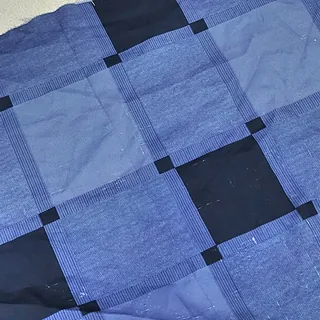
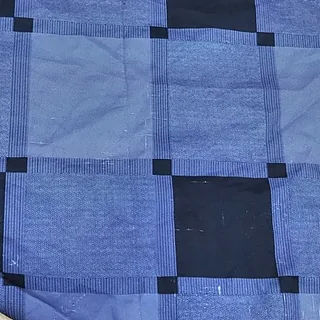
fix(kho-vai): one row per fabric, slanted checks turned straight
The Drive folder holds 2-3 photos of some fabrics (close, far, the back);
the seed made a row of each. 20261014d_kho_vai_gop.sql removes the five
second photos (3, 16, 14, 57, 53) and renames three; js/patch.js maps the
old r<id> to the kept fabric so shared designs still show the right cloth.

Checks and stripes photographed at a slant are turned straight before the
swatch is cut (#46 -45 deg, now 'Kẻ ô nâu đen'; #13 -25 deg, 'Caro lớn
xanh đen'; #63 -3.8 deg). Tests: 66 fabrics.

Claude-Session: https://claude.ai/code/session_01XuGc1emL7LJH73FGACZt11

diff --git a/js/patch.js b/js/patch.js
@@ -155,6 +155,9 @@
   var REAL_IMG = /^(images\/[a-z0-9\/_.-]+|https:\/\/dxdovvqsfjeizsoprrfn\.supabase\.co\/storage\/v1\/object\/public\/gem-media\/[A-Za-z0-9%._-]+)$/;
   // how alike two kinds are, when the exact one is missing
   var KIND_GROUP = { tron: 0, ren: 0, caro: 1, soc: 1, ono: 1, cham: 2, hoa: 2, hoato: 3, tho: 3 };
+  // rows that were a second photo of the same cloth (removed 14/10/2026,
+  // 20261014d_kho_vai_gop.sql): an old design's r<id> shows the kept one
+  var MERGED = { 3: 2, 16: 15, 14: 12, 57: 59, 53: 41 };
 
   function setReal(rows) {
     REAL = {}; REAL_ON = [];
@@ -167,6 +170,7 @@
       REAL[f.id] = f;
       if (!f.out && !f.hidden && f.src) REAL_ON.push(f);
     });
+    Object.keys(MERGED).forEach(function (id) { if (!REAL[id] && REAL[MERGED[id]]) REAL[id] = REAL[MERGED[id]]; });
     REAL_ON.sort(function (a, b) {
       return TONE_ORDER.indexOf(a.tone) - TONE_ORDER.indexOf(b.tone) || a.sort - b.sort || a.id - b.id;
     });

diff --git a/tools/check-studio.py b/tools/check-studio.py
@@ -156,6 +156,14 @@ def fabric_rows():
     places = {int(a): b for a, b in re.findall(r"\((\d+), '(Phòng[^']*)'\)", sql)}
     for r in rows:
         r['place'] = places.get(r['id'])
+    # 20261014d: second photos of the same cloth removed, a few renamed
+    gop = (ROOT / 'supabase/migrations/20261014d_kho_vai_gop.sql').read_text(encoding='utf-8')
+    gone = {int(x) for x in re.search(r'where id in \(([\d, ]+)\)', gop)[1].split(',')}
+    rows = [r for r in rows if r['id'] not in gone]
+    for m in re.finditer(r"set name_vi = '([^']*)', name_en = '([^']*)' where id = (\d+)", gop):
+        for r in rows:
+            if r['id'] == int(m[3]):
+                r['name_vi'], r['name_en'] = m[1], m[2]
     return rows
 
 
@@ -2819,9 +2827,10 @@ async def vai(browser, db):
     """Kho vải on the design table: the basket holds the real fabrics."""
     print('vai')
     db.fabrics = fabric_rows()
-    db.fabrics[2]['in_stock'] = False      # Caro xanh lá to: sold out
-    db.fabrics[3]['is_visible'] = False    # Gấm lá xanh: hidden
-    gone = {'r3', 'r4'}
+    byid = {f['id']: f for f in db.fabrics}
+    byid[2]['in_stock'] = False            # Caro xanh lá: sold out
+    byid[4]['is_visible'] = False          # Gấm lá xanh: hidden
+    gone = {'r2', 'r4'}
     lam = sorted('r%d' % f['id'] for f in db.fabrics if f['tone'] == 'lam')
     for name, w, h in (('mobile', 393, 852), ('desktop', 1440, 900)):
         db.fab_urls.clear()
@@ -2836,7 +2845,7 @@ async def vai(browser, db):
         line = await pg.evaluate("(() => { const e = document.querySelector('.pt-onpiece'); return e && !e.hidden ? e.textContent : ''; })()")
         check(line.startswith('Vải trên món:') and '×' in line, f'{name}: "Vải trên món" names the fabrics ({line[:70]})')
         chips = await pg.evaluate("[...document.querySelectorAll('.pt-vtone')].map(b => b.textContent)")
-        check(len(chips) == 6 and chips[0].startswith('Tất cả 69'), f'{name}: colour chips, sold-out / hidden left out ({chips})')
+        check(len(chips) == 6 and chips[0].startswith('Tất cả 64'), f'{name}: colour chips, sold-out / hidden left out ({chips})')
         # one colour: only blues, and "Lục rổ" walks through all of them
         await js_click(pg, '[data-vtone="lam"]')
         seen = set(await pg.evaluate("[...document.querySelectorAll('.pt-scrap')].map(b => b.dataset.scrap)"))
@@ -2871,7 +2880,7 @@ async def vai(browser, db):
         await js_click(pg, '[data-pt="kho"]')
         await pg.wait_for_timeout(500)
         n = await pg.evaluate("document.querySelectorAll('.kho-f').length")
-        check(n == 69, f'{name}: Kho vải shows every fabric in stock ({n})')
+        check(n == 64, f'{name}: Kho vải shows every fabric in stock ({n})')
         names = await pg.evaluate("[...document.querySelectorAll('.kho-f b')].map(b => b.textContent).slice(0, 3)")
         check(names[0] == 'Thô xanh rêu', f'{name}: each card has its name ({names})')
         await js_click(pg, '[data-ktone="hong"]')
@@ -2901,12 +2910,12 @@ async def vai(browser, db):
     got = await pg.evaluate("""() => window.GemPatch.loadReal().then(() => {
       const P = window.GemPatch, d = P.blank('goi');
       P.applyMood(d, P.MOODS[1]);
-      P.setPatch(d, 0, 'r3');                    // a sold-out one on purpose
+      P.setPatch(d, 0, 'r2');                    // a sold-out one on purpose
       const spec = P.encode(d), back = P.parse(spec);
       return [spec, !!back && P.encode(back) === spec, P.describe(spec, 'vi'), P.url(spec)];
     })""")
     check(got[1] and re.search(r'~r\d+(\.r\d+)*$', got[0]), f'design code carries the real fabrics and reads back ({got[0][-40:]})')
-    check('Caro xanh lá to (đã hết)' in got[2] and 'chất vải' not in got[2], f'order line: real names, sold out marked ({got[2][:120]})')
+    check('Caro xanh lá (đã hết)' in got[2] and 'chất vải' not in got[2], f'order line: real names, sold out marked ({got[2][:120]})')
     await pg.goto(got[3])
     await pg.wait_for_timeout(3500)
     check(await pg.evaluate("document.querySelectorAll('.pt-board image[href*=\"vai-that\"]').length") > 0, 'a shared link opens with the fabric photos')
@@ -2942,10 +2951,10 @@ async def kho(browser, db):
     await js_click(pg, '[data-tab="fabrics"]')
     await pg.wait_for_timeout(800)
     n = await pg.evaluate("document.querySelectorAll('.ad-fab').length")
-    check(n == 71, f'all 71 fabrics on cards ({n})')
+    check(n == 66, f'all 66 fabrics on cards ({n})')
     check('Chỗ để: Phòng' in await pg.evaluate("document.querySelector('.ad-fab .ad-fab-place').textContent"), 'each card says where it is kept')
     await js_click(pg, '[data-ff="xanh"]')
-    check(await pg.evaluate("document.querySelectorAll('.ad-fab').length") == 6, 'the "Xanh lá" chip: six cards')
+    check(await pg.evaluate("document.querySelectorAll('.ad-fab').length") == 5, 'the "Xanh lá" chip: five cards')
     await js_click(pg, '[data-ff="all"]')
     # Còn -> Hết
     await js_click(pg, '.ad-fab [data-fs="stock"]')
@@ -3003,7 +3012,7 @@ async def kho(browser, db):
     f = db.files.get((row.get('img') or '').split('/gem-media/')[-1])
     check(f and decode(f[1]).size == (320, 320) and f[0] == 'image/webp', f'the photo is a 320px WebP ({decode(f[1]).size if f else None}, {len(f[1]) // 1024 if f else 0} KB)')
     check(('place', {'fabric_id': 72, 'place': 'Kệ thử, tầng 2'}) in db.fab_log, 'its place goes to fabric_private')
-    check(await pg.evaluate("document.querySelectorAll('.ad-fab').length") == 72, 'back on the cards: 72 now')
+    check(await pg.evaluate("document.querySelectorAll('.ad-fab').length") == 67, 'back on the cards: 67 now')
     # edit: rename + move
     await js_click(pg, '.ad-fab[data-id="72"] [data-fs="edit"]')
     check(await pg.evaluate("document.querySelector('[name=\"name_vi\"]').value") == 'Lụa đỏ thử', 'the form opens filled in')
@@ -3018,7 +3027,7 @@ async def kho(browser, db):
     await js_click(pg, '.ad-fab[data-id="72"] [data-fs="edit"]')
     await js_click(pg, '.ad-fab-del')   # page() accepts the confirm
     await pg.wait_for_timeout(1000)
-    check(('delete', 72) in db.fab_log and await pg.evaluate("document.querySelectorAll('.ad-fab').length") == 71, 'Xoá removes it')
+    check(('delete', 72) in db.fab_log and await pg.evaluate("document.querySelectorAll('.ad-fab').length") == 66, 'Xoá removes it')
     check(not pg.errors, f'no script errors {pg.errors}')
     await pg.context.close()
 

diff --git a/tools/kv-swatches.py b/tools/kv-swatches.py
@@ -15,7 +15,8 @@
 #   prints       big light changes evened out (a fold that bends the print
 #                stays: redrawing it would no longer be the real cloth)
 # then the shop's lights corrected (less yellow-red, not for cream / beige),
-# brighter, a little fresher. The rows match supabase/migrations/20261014b_kho_vai_seed.sql.
+# brighter, a little fresher. The rows match supabase/migrations/20261014b_kho_vai_seed.sql
+# less the second photos of the same cloth (20261014d_kho_vai_gop.sql).
 import os
 import re
 import sys
@@ -31,7 +32,6 @@ F = [
     # xanh lá
     ('A-185048', (160, 120, 1040, 1000), 'Thô xanh rêu', 'Moss green linen-look', 'xanh', 'tron', 'Vải thô', 1, 0),
     ('A-185105', (200, 150, 650, 600), 'Caro xanh lá', 'Green gingham', 'xanh', 'caro', 'Cotton', 0, 0),
-    ('A-185114', (450, 100, 1000, 650), 'Caro xanh lá to', 'Big green check', 'xanh', 'caro', 'Cotton', 0, 0),
     ('B-175626', (200, 120, 1040, 960), 'Gấm lá xanh', 'Green leaf brocade', 'xanh', 'hoato', 'Gấm', 0, 0),
     ('B-173906', C, 'Hoa nền vàng chanh', 'Flowers on lime', 'xanh', 'hoato', 'Vải pha', 0, 0),
     ('B-174628', C, 'Hoa rực rỡ', 'Bright garden', 'xanh', 'hoato', 'Vải pha', 0, 0),
@@ -42,10 +42,8 @@ F = [
     ('A-185530', (350, 150, 850, 650), 'Xanh than', 'Navy', 'lam', 'tron', 'Vải pha', 1, 0),
     ('A-185505', (550, 400, 1150, 1000), 'Tổ ong xanh nhạt', 'Pale blue waffle', 'lam', 'ono', 'Vải tổ ong', 0, 0),
     ('A-190250', (200, 150, 560, 510), 'Ô nhỏ xanh than', 'Small navy check', 'lam', 'ono', 'Cotton', 0, 0),
-    ('A-190149', (500, 240, 1100, 840), 'Caro trám xanh', 'Blue diamond check', 'lam', 'caro', 'Cotton', 0, 0),
-    ('A-190257', (550, 200, 1150, 800), 'Kẻ ô xanh coban', 'Cobalt plaid', 'lam', 'caro', 'Vải pha', 0, 0),
+    ('A-190149', (540, 280, 1060, 800), 'Caro trám xanh', 'Blue diamond check', 'lam', 'caro', 'Cotton', 0, 0),
     ('A-185158', (200, 150, 860, 810), 'Voan hoa hồng nền xanh', 'Roses on blue voile', 'lam', 'hoato', 'Voan', 0, 0),
-    ('A-185207', C, 'Hoa hồng to nền xanh nhạt', 'Big roses on pale blue', 'lam', 'hoato', 'Voan', 0, 0),
     ('A-184917', C, 'Họa tiết ô màu', 'Colour-block folk print', 'lam', 'tho', 'Cotton', 0, 0),
     ('B-174505', C, 'Màu nước tím xanh', 'Blue-violet watercolour', 'lam', 'hoato', 'Voan', 0, 0),
     ('B-175248', C, 'Paisley nền xám xanh', 'Paisley on grey-blue', 'lam', 'hoato', 'Voan', 0, 0),
@@ -84,12 +82,10 @@ F = [
     ('B-174419', C, 'Họa tiết nâu xanh ngọc', 'Brown and teal swirls', 'nau', 'hoato', 'Lụa', 0, 0),
     ('B-174524', C, 'Hoa to sơn dầu', 'Painted big flowers', 'nau', 'hoato', 'Vải pha', 0, 0),
     ('B-175200', C, 'Mảng màu cam xanh', 'Orange-blue colour blocks', 'nau', 'hoato', 'Vải pha', 0, 0),
-    ('B-174855', (800, 120, 1500, 820), 'Thổ cẩm đỏ đen', 'Red-black folk weave', 'nau', 'tho', 'Thổ cẩm', 0, 0),
     ('B-174154', C, 'Chắp vá thổ cẩm', 'Folk patchwork print', 'nau', 'tho', 'Cotton', 0, 0),
     # trung tính
     ('B-173754', (160, 120, 1040, 1000), 'Thun gân kem', 'Cream rib knit', 'trung', 'tron', 'Thun', 1, 1),
     ('B-173817', C, 'Kem trơn', 'Plain cream', 'trung', 'tron', 'Cotton', 1, 1),
-    ('A-185700', (300, 500, 800, 1000), 'Dạ xám muối tiêu', 'Salt-and-pepper wool', 'trung', 'tron', 'Dạ', 1, 0),
     ('A-185932', C, 'Nỉ xám', 'Grey felt', 'trung', 'tron', 'Nỉ', 1, 0),
     ('A-185655', C, 'Dạ xám than', 'Charcoal wool', 'trung', 'tron', 'Dạ', 1, 0),
     ('A-185719', C, 'Nhung đen ánh tím', 'Black-plum velvet', 'trung', 'tron', 'Nhung', 1, 0),
@@ -163,6 +159,10 @@ def photo(src, name):
         im = im.resize((round(im.width * k), round(im.height * k)), Image.LANCZOS)
     return im
 
+# checks / stripes photographed at a slant, turned straight round the crop's
+# centre before cropping (degrees, + = anticlockwise; Anna 14/10/2026)
+ROT = {'B-173648': -45, 'B-173947': -3.8, 'A-190149': -25}
+
 def default_box(im, box, plain):
     if box: return box
     w, h = im.size
@@ -175,6 +175,8 @@ def make(src, row, new=True):
     box = default_box(im, box, plain)
     if name in KEEP:
         plain = 0
+    if name in ROT:
+        im = im.rotate(ROT[name], center=((box[0] + box[2]) / 2, (box[1] + box[3]) / 2), resample=Image.BICUBIC)
     # prints keep the hand-checked crop: the "flattest" square found by
     # flattest() is too often the one with the least print on it
     a = np.asarray(im.crop(box).resize((640, 640), Image.LANCZOS), dtype=float) / 255

diff --git a/docs/design.md b/docs/design.md
@@ -1893,6 +1893,15 @@ Gem đang có**, nhân sự tự thêm tấm mới trong admin.
     cùng tủ vải to. Bỏ các ảnh trùng tấm.
   - Ảnh nằm ở `images/studio/vai-that/` (khoảng 1,8 MB), làm bằng `tools/kv-swatches.py`.
   - Tên, chất liệu, hoa văn là **đoán từ ảnh**: Anna sửa trong admin.
+  - **Lọc lại 14/10** (`20261014d_kho_vai_gop.sql`): Drive có 2–3 ảnh cho một số tấm (gần,
+    xa, mặt trái), seed đã tính mỗi ảnh một tấm. Xoá 5 dòng trùng (3→2, 16→15, 14→12,
+    57→59, 53→41), còn **66 tấm**. Mã thiết kế cũ có `r3`… vẫn hiện đúng vải nhờ bảng
+    `MERGED` trong `js/patch.js`.
+  - **Vải kẻ / caro chụp nghiêng thì xoay thẳng** trước khi cắt ảnh (Anna 14/10: "kẻ dọc
+    nhưng chụp bị chéo"). Góc đo bằng độ sắc của đường chiếu dọc / ngang (lần lượt thử từng
+    góc, lấy góc mà các đường kẻ thẳng hàng nhất). Đã xoay: #46 −45° (đổi tên "Kẻ ô nâu
+    đen"), #13 −25° ("Caro lớn xanh đen"), #63 −3,8°. Vải chéo thật (twill #62, hạt trám
+    #68) giữ nguyên.
 - **Xử lý ảnh** (cùng một cách ở `tools/kv-swatches.py` và `GemImg.fabric` trong
   `js/img-tools.js`):
   - **Vải trơn** được vẽ lại cho phẳng hẳn: màu của chính tấm vải (trung vị, nên nếp gấp
